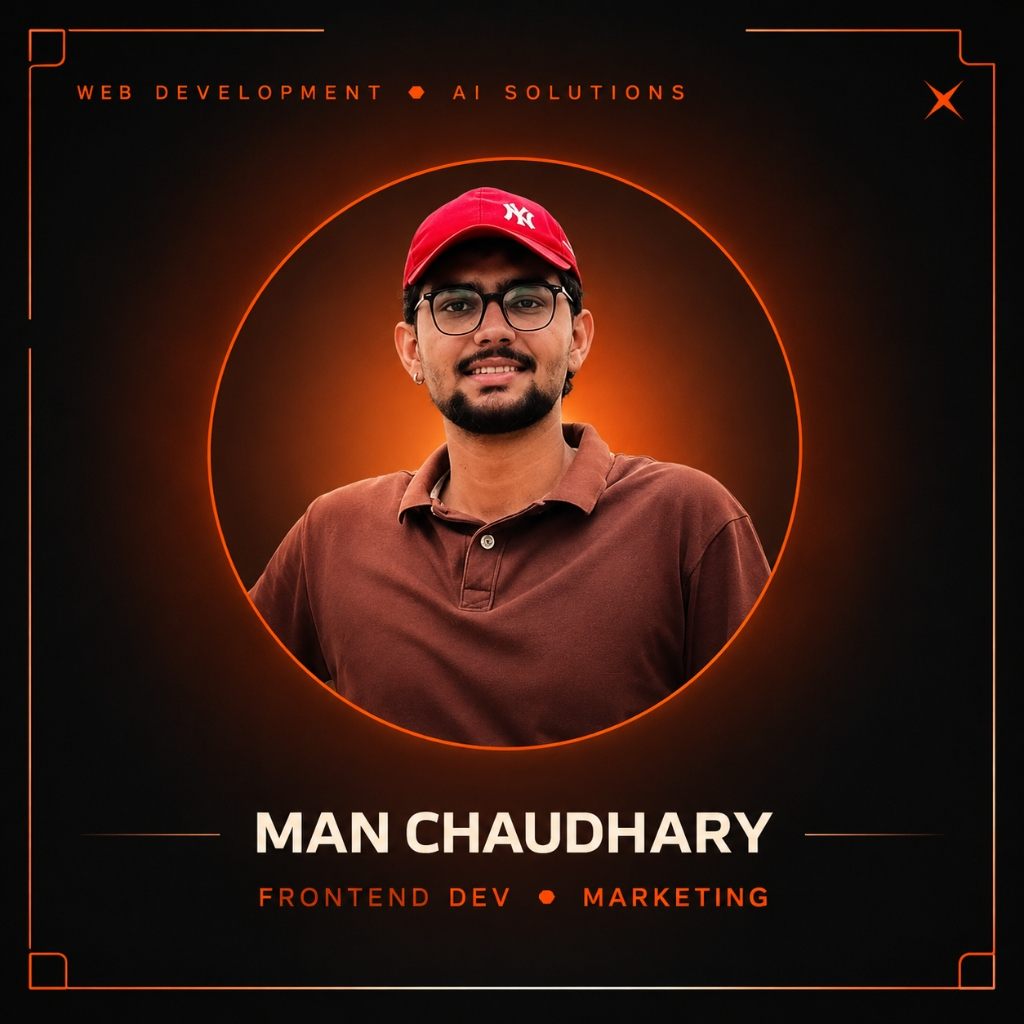
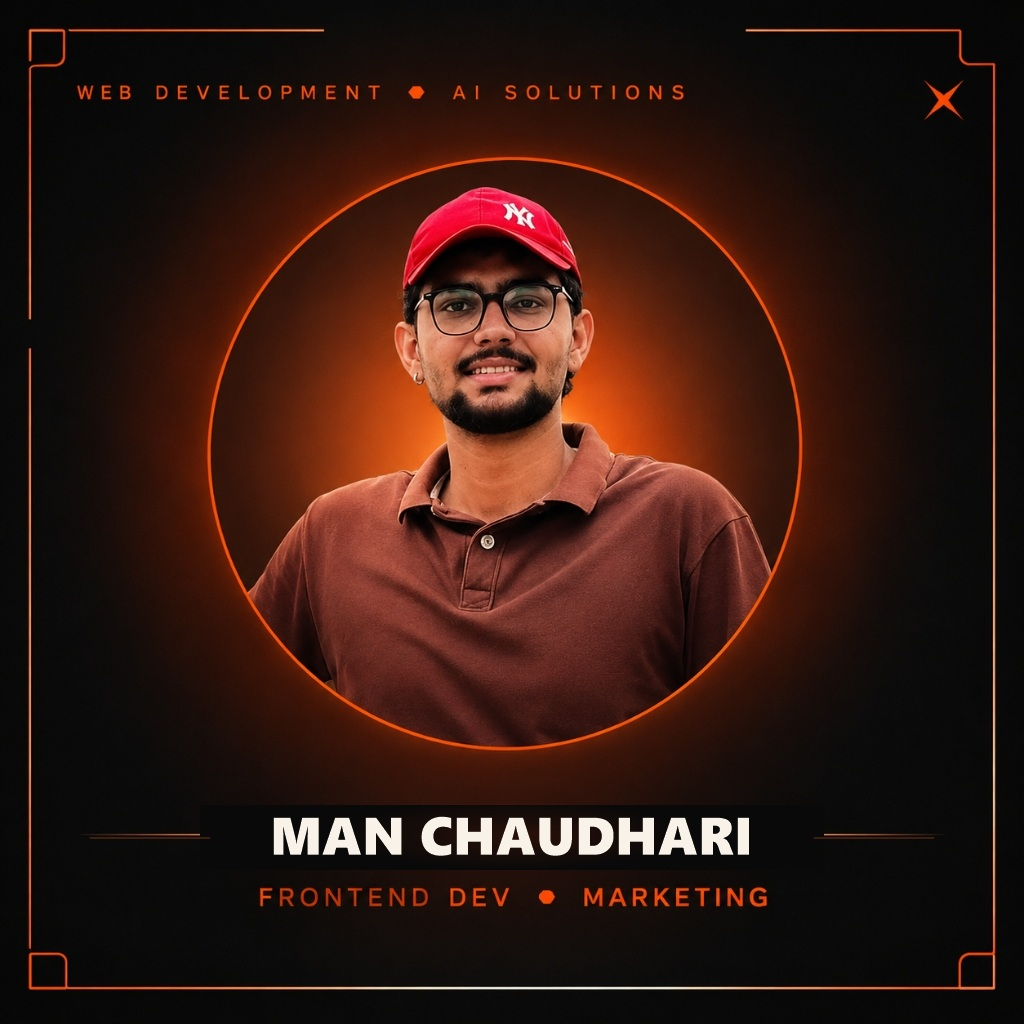
feat(team): add Ms. Mayuri Kumari, update team sequence, set Navin Chaudhary portrait, and update branding

Changed region(s): [[0.25, 0.7812, 0.75, 0.8438]]

diff --git a/src/components/sections/TeamSection.tsx b/src/components/sections/TeamSection.tsx
@@ -6,6 +6,24 @@ import { useCursor } from '../../hooks/useCursor';
 import { useScrollReveal } from '../../hooks/useScrollReveal';
 import './TeamSection.css';
 
+const InstagramIcon: React.FC<{ size?: number }> = ({ size = 14 }) => (
+  <svg
+    width={size}
+    height={size}
+    viewBox="0 0 24 24"
+    fill="none"
+    stroke="currentColor"
+    strokeWidth="2"
+    strokeLinecap="round"
+    strokeLinejoin="round"
+    aria-hidden="true"
+  >
+    <rect width="20" height="20" x="2" y="2" rx="5" ry="5" />
+    <path d="M16 11.37A4 4 0 1 1 12.63 8 4 4 0 0 1 16 11.37z" />
+    <line x1="17.5" x2="17.51" y1="6.5" y2="6.5" />
+  </svg>
+);
+
 export interface TeamSectionProps {
   variant?: 'full' | 'compact';
   id?: string;
@@ -42,12 +60,14 @@ export const TeamSection: React.FC<TeamSectionProps> = ({
           />
         </div>
 
-        {/* Team Grid with 4 Members in Exact Sequence */}
+        {/* Team Grid with 5 Members in Exact Sequence */}
         <div className="team-grid" data-gsap-stagger="team-card">
           {TEAM_MEMBERS.map((member) => {
             const hasError = imageErrors[member.id];
-            const initials = member.name
+            const cleanedName = member.name.replace(/\b(ms|mr|mrs|dr)\.?\s+/gi, '');
+            const initials = cleanedName
               .split(' ')
+              .filter(Boolean)
               .map((w) => w[0])
               .join('');
 
@@ -90,20 +110,40 @@ export const TeamSection: React.FC<TeamSectionProps> = ({
                   <h3 className="team-member-name">{member.name}</h3>
                   <p className="team-member-role">{member.role}</p>
 
-                  {member.portfolioUrl && (
-                    <a
-                      href={member.portfolioUrl}
-                      target="_blank"
-                      rel="noopener noreferrer"
-                      className="team-portfolio-btn"
-                      aria-label={`View ${member.name}'s portfolio (opens in a new tab)`}
-                      onClick={(e) => e.stopPropagation()}
-                      onMouseEnter={() => setCursorMode('pointer')}
-                      onMouseLeave={resetCursor}
-                    >
-                      <span>View Portfolio</span>
-                      <ArrowUpRight size={14} aria-hidden="true" />
-                    </a>
+                  {(member.portfolioUrl || member.instagramUrl) && (
+                    <div className="team-actions-row">
+                      {member.portfolioUrl && (
+                        <a
+                          href={member.portfolioUrl}
+                          target="_blank"
+                          rel="noopener noreferrer"
+                          className="team-portfolio-btn"
+                          aria-label={`View ${member.name}'s portfolio (opens in a new tab)`}
+                          onClick={(e) => e.stopPropagation()}
+                          onMouseEnter={() => setCursorMode('pointer')}
+                          onMouseLeave={resetCursor}
+                        >
+                          <span>Portfolio</span>
+                          <ArrowUpRight size={13} aria-hidden="true" />
+                        </a>
+                      )}
+
+                      {member.instagramUrl && (
+                        <a
+                          href={member.instagramUrl}
+                          target="_blank"
+                          rel="noopener noreferrer"
+                          className="team-portfolio-btn team-instagram-btn"
+                          aria-label={`Visit ${member.name}'s Instagram (opens in a new tab)`}
+                          onClick={(e) => e.stopPropagation()}
+                          onMouseEnter={() => setCursorMode('pointer')}
+                          onMouseLeave={resetCursor}
+                        >
+                          <InstagramIcon size={13} />
+                          <span>Instagram</span>
+                        </a>
+                      )}
+                    </div>
                   )}
                 </div>
               </article>

diff --git a/src/components/sections/TeamSection.css b/src/components/sections/TeamSection.css
@@ -23,18 +23,45 @@
 .team-grid {
   display: grid;
   grid-template-columns: 1fr;
-  gap: clamp(1.5rem, 3vw, 2.25rem);
+  gap: clamp(1.25rem, 2.5vw, 2rem);
 }
 
-@media (min-width: 640px) {
+@media (min-width: 640px) and (max-width: 839px) {
   .team-grid {
     grid-template-columns: repeat(2, 1fr);
   }
+
+  .team-card:last-child {
+    grid-column: 1 / -1;
+    max-width: 380px;
+    width: 100%;
+    margin: 0 auto;
+  }
 }
 
-@media (min-width: 1024px) {
+@media (min-width: 840px) and (max-width: 1199px) {
   .team-grid {
-    grid-template-columns: repeat(4, 1fr);
+    grid-template-columns: repeat(6, 1fr);
+  }
+
+  .team-card:nth-child(1),
+  .team-card:nth-child(2),
+  .team-card:nth-child(3) {
+    grid-column: span 2;
+  }
+
+  .team-card:nth-child(4) {
+    grid-column: 2 / span 2;
+  }
+
+  .team-card:nth-child(5) {
+    grid-column: 4 / span 2;
+  }
+}
+
+@media (min-width: 1200px) {
+  .team-grid {
+    grid-template-columns: repeat(5, 1fr);
   }
 }
 
@@ -162,7 +189,7 @@
 
 /* Card Body */
 .team-card-body {
-  padding: 1.5rem;
+  padding: clamp(1rem, 1.35vw, 1.5rem);
   display: flex;
   flex-direction: column;
   gap: 0.375rem;
@@ -173,43 +200,55 @@
 
 .team-member-name {
   font-family: var(--font-display);
-  font-size: clamp(1.0625rem, 1.5vw, 1.25rem);
+  font-size: clamp(0.975rem, 1.15vw, 1.25rem);
   font-weight: 800;
   letter-spacing: -0.015em;
   color: var(--text-primary);
-  line-height: 1.2;
+  line-height: 1.25;
 }
 
 .team-member-role {
   font-family: var(--font-body);
-  font-size: 0.875rem;
+  font-size: clamp(0.75rem, 0.9vw, 0.875rem);
   font-weight: 600;
   color: var(--color-burnt-orange);
   line-height: 1.4;
 }
 
 /* Portfolio Link Button */
+.team-actions-row {
+  display: flex;
+  align-items: center;
+  gap: 0.45rem;
+  flex-wrap: wrap;
+  margin-top: 0.75rem;
+}
+
 .team-portfolio-btn {
   display: inline-flex;
   align-items: center;
   justify-content: center;
   gap: 0.375rem;
   margin-top: 0.75rem;
-  padding: 0.5rem 0.9rem;
+  padding: 0.45rem 0.8rem;
   background-color: var(--bg-secondary);
   border: 1px solid var(--border-medium);
   border-radius: var(--radius-md);
   color: var(--color-burnt-orange);
   font-family: var(--font-body);
-  font-size: 0.75rem;
+  font-size: 0.71875rem;
   font-weight: 700;
   letter-spacing: 0.04em;
   text-transform: uppercase;
   text-decoration: none;
-  min-height: 38px;
+  min-height: 34px;
   width: fit-content;
   box-sizing: border-box;
   transition: all var(--duration-fast) var(--ease-out);
+}
+
+.team-actions-row .team-portfolio-btn {
+  margin-top: 0;
 }
 
 .team-portfolio-btn:hover {
@@ -222,6 +261,24 @@
 
 .team-portfolio-btn:focus-visible {
   outline: 2px solid var(--color-burnt-orange);
+  outline-offset: 2px;
+}
+
+.team-portfolio-btn.team-instagram-btn {
+  color: var(--text-secondary);
+  border-color: var(--border-subtle);
+  background-color: var(--bg-tertiary);
+}
+
+.team-portfolio-btn.team-instagram-btn:hover {
+  background: linear-gradient(135deg, #F58529, #DD2A7B, #8134AF);
+  border-color: transparent;
+  color: #FFFFFF;
+  box-shadow: 0 4px 14px rgba(221, 42, 123, 0.32);
+}
+
+.team-portfolio-btn.team-instagram-btn:focus-visible {
+  outline: 2px solid #DD2A7B;
   outline-offset: 2px;
 }
 

diff --git a/src/data/content.ts b/src/data/content.ts
@@ -29,7 +29,7 @@ export const BRAND = {
   callUrl: 'tel:+918155952384',
   email: 'chaudharynax27@gmail.com',
   emailUrl: 'mailto:chaudharynax27@gmail.com',
-  instagramUrl: 'https://www.instagram.com/astralxxixnax?vrfl=cXplb2RjcXN3NGVr',
+  instagramUrl: 'https://www.instagram.com/vyrobytex?dlrf=eTNwY3ozamx0cmZl',
   availability: 'Accepting Selected Client Inquiries',
   location: 'Gujarat, India & Remote Global',
 } as const;
@@ -526,31 +526,40 @@ export const TEAM_MEMBERS: TeamMember[] = [
     id: 'navin-chaudhary',
     number: '01',
     name: 'NAVIN CHAUDHARY',
-    role: 'Founder',
-    image: '/images/team/navin-placeholder.svg',
-    alt: 'Temporary portrait placeholder for Navin Chaudhary',
-    isFounder: true,
+    role: 'Full Stack Developer',
+    image: '/images/team/navin-chaudhary.jpg',
+    alt: 'Portrait of Navin Chaudhary — Full Stack Developer at Vyrobytex',
+    portfolioUrl: 'https://mnax-ochre.vercel.app/',
+    instagramUrl: 'https://www.instagram.com/astralxxixnax?vrfl=cXplb2RjcXN3NGVr',
+  },
+  {
+    id: 'mayuri-kumari',
+    number: '02',
+    name: 'MS. MAYURI KUMARI',
+    role: 'UI/UX Designer',
+    image: '/images/team/mayuri-placeholder.svg',
+    alt: 'Portrait placeholder for Ms. Mayuri Kumari — UI/UX Designer at Vyrobytex',
   },
   {
     id: 'brijesh-chaudhary',
-    number: '02',
+    number: '03',
     name: 'BRIJESH CHAUDHARY',
     role: 'Team Member',
     image: '/images/team/brijesh-placeholder.svg',
     alt: 'Temporary portrait placeholder for Brijesh Chaudhary',
   },
   {
-    id: 'man-chaudhary',
-    number: '03',
-    name: 'MAN CHAUDHARY',
+    id: 'man-chaudhari',
+    number: '04',
+    name: 'MAN CHAUDHARI',
     role: 'Frontend Development & Marketing',
     image: '/images/team/man-chaudhary.jpg',
-    alt: 'Portrait of Man Chaudhary — Frontend Development & Marketing at Vyrobytex',
+    alt: 'Portrait of Man Chaudhari — Frontend Development & Marketing at Vyrobytex',
     portfolioUrl: 'https://man-chaudhari-portfolio.vercel.app',
   },
   {
     id: 'dixit-patel',
-    number: '04',
+    number: '05',
     name: 'DIXIT PATEL',
     role: 'Sales & Customer Management',
     image: '/images/team/dixit-placeholder.svg',

diff --git a/src/lib/seo.ts b/src/lib/seo.ts
@@ -52,10 +52,14 @@ export function buildOrganizationSchema() {
     founder: {
       '@type': 'Person',
       name: 'Navin Chaudhary',
-      jobTitle: 'Founder',
+      jobTitle: 'Founder & Full Stack Developer',
+      sameAs: [
+        'https://mnax-ochre.vercel.app/',
+        'https://www.instagram.com/astralxxixnax?vrfl=cXplb2RjcXN3NGVr',
+      ],
     },
     sameAs: [
-      'https://www.instagram.com/astralxxixnax?vrfl=cXplb2RjcXN3NGVr',
+      'https://www.instagram.com/vyrobytex',
       'https://wa.me/918155952384',
       'https://github.com/mayuri2907/VyroBytex',
     ],

diff --git a/src/pages/ContactPage.tsx b/src/pages/ContactPage.tsx
@@ -253,7 +253,7 @@ export const ContactPage: React.FC = () => {
                     Instagram Profile
                   </div>
                   <div style={{ fontSize: '1.0625rem', fontWeight: 700, color: 'var(--text-primary)' }}>
-                    @astralxxixnax
+                    @vyrobytex
                   </div>
                   <div style={{ fontSize: '0.75rem', color: 'var(--color-burnt-orange)', marginTop: '0.125rem', fontWeight: 600 }}>
                     Connect & view creative updates

diff --git a/src/components/layout/Footer.tsx b/src/components/layout/Footer.tsx
@@ -148,7 +148,7 @@ export const Footer: React.FC = () => {
                   onMouseLeave={resetCursor}
                   aria-label="Visit our Instagram profile"
                 >
-                  Instagram (@astralxxixnax)
+                  Instagram (@vyrobytex)
                 </a>
               </li>
               <li>

diff --git a/src/types/index.ts b/src/types/index.ts
@@ -62,5 +62,6 @@ export interface TeamMember {
   alt: string;
   isFounder?: boolean;
   portfolioUrl?: string;
+  instagramUrl?: string;
 }
 
